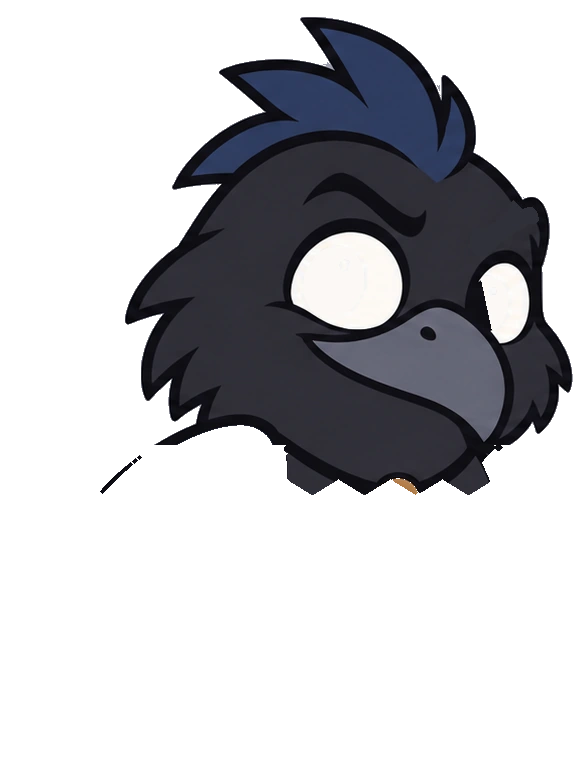
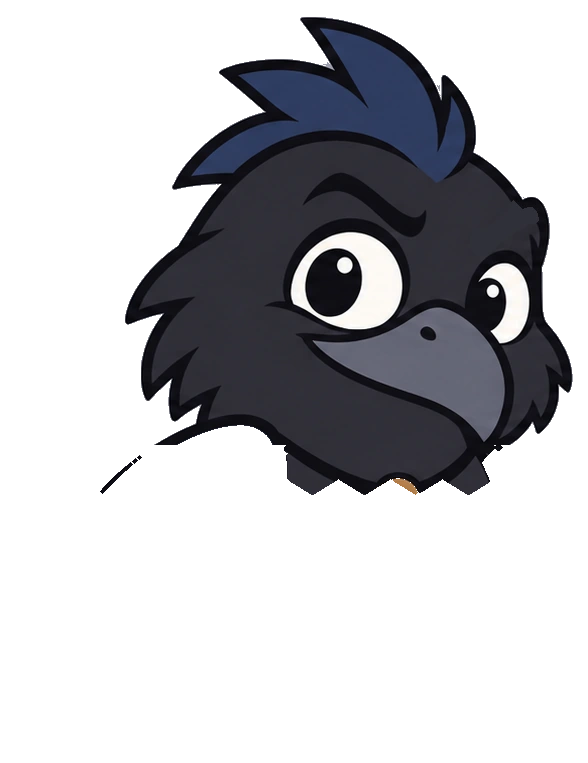
Huginn: pupilas na cabeça, sem deslizar (sem fresta branca no olho pequeno)

Changed region(s): [[0.5204, 0.3014, 0.6122, 0.422], [0.7959, 0.3617, 0.8571, 0.4522]]

diff --git a/windows/src/bifrost/rig-raster.ts b/windows/src/bifrost/rig-raster.ts
@@ -102,7 +102,7 @@ export function drawRaster(x: C2, who: Who, pose: RigPose, s: number, alpha = 1)
   const small = Math.min(...m.eyes.map((q) => q[2]));
   // Muninn não desliza a pupila: a pupila dela encosta no contorno do olho e qualquer
   // deslocamento abria uma fresta branca (esclera) ao lado do olho esquerdo.
-  const gaze = who === "muninn" ? 0 : 1;
+  const gaze = 0; // pupilas ficam na cabeça (sem fresta branca ao olhar)
   ge.drawImage(im("pupils"), pose.px * small * 0.3 * gaze, pose.py * small * 0.25 * gaze);
   const lid = Math.max(0, Math.min(1, pose.lid));
   if (who === "muninn") {

diff --git a/windows/tools/cut-ravens.py b/windows/tools/cut-ravens.py
@@ -95,8 +95,7 @@ for who, cfg in CFG.items():
     headM &= ~(wingPix & (yy >= cut - 30))  # asas não vão com a cabeça
     layers = {}
     Hc = C.copy()
-    if who != "muninn":
-        Hc[pupD] = sclera  # pupilas em camada própria
+    # (pupilas ficam na própria cabeça nos dois corvos: deslizar a pupila abria frestas brancas)
     # (Muninn: a pupila fica na própria cabeça — ela encosta no contorno e a máscara convexa
     #  do branco cortava a pupila numa reta, que virava uma fresta clara ao mexer a cabeça.)
     # sobrancelha (Huginn): camada própria; por baixo, pena
@@ -195,7 +194,7 @@ for who, cfg in CFG.items():
     save(f"{who}-head", bleed(Hc, headA), headA)
     Pc = np.zeros_like(C); Pc[:] = ink
     # pupila = os pixels originais (com o brilho), opaca na própria máscara: sem fresta
-    save(f"{who}-pupils", Pc, pupA if who != "muninn" else np.zeros_like(pupA))
+    save(f"{who}-pupils", Pc, np.zeros_like(pupA))
     save(f"{who}-eyes", np.full_like(C, 255), eyeAll.astype(np.float32))
     if who == "muninn":
         # máscara da pálpebra: o olho com o contorno de fora inteiro (+3 px), por olho
